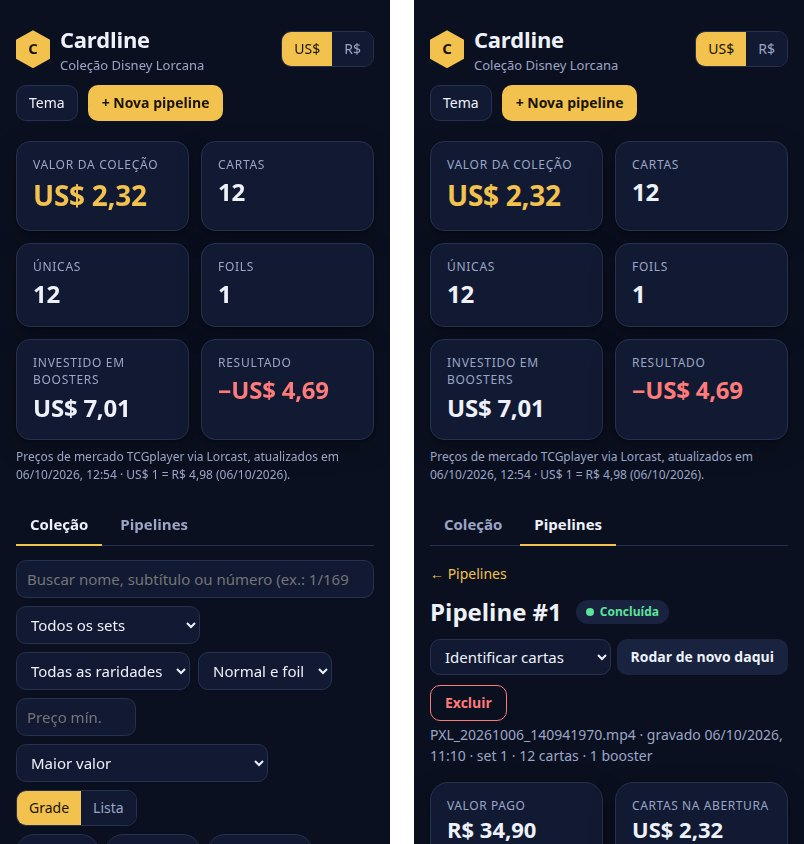
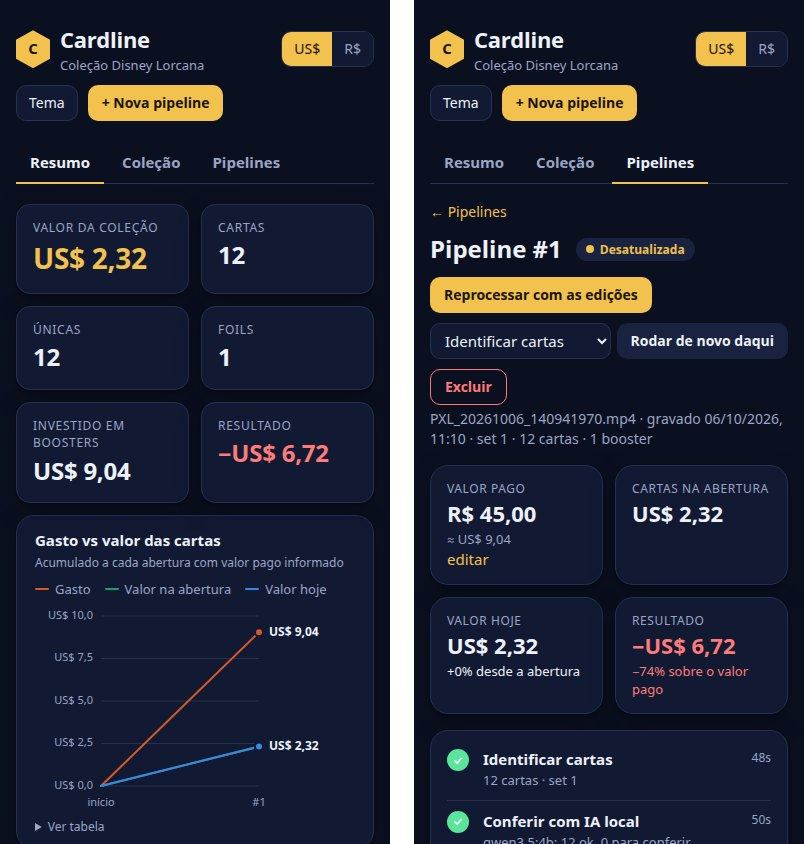
Aba Resumo com os números, o gráfico e a atualização de preços
O bloco de resumo (valor da coleção, investido, resultado, gráfico de gasto vs
valor e "Atualizar preços") saiu do topo de todas as telas e virou a aba
Resumo, ao lado de Coleção e Pipelines. A página abre nela; no topo fica só a
barra com moeda, tema e "+ Nova pipeline".

Claude-Session: https://claude.ai/code/session_01DBmU53kZnQptLA3bhpjGfq

diff --git a/cardline/web/index.html b/cardline/web/index.html
@@ -10,13 +10,21 @@
 <div class="wrap">
   <header class="top">
     <div class="brand">
-      <a class="logo" href="#/colecao" aria-label="Início">C</a>
+      <a class="logo" href="#/resumo" aria-label="Início">C</a>
       <div><h1>Cardline</h1><p>Coleção Disney Lorcana</p></div>
       <span class="spacer"></span>
       <div class="seg" id="currency" role="group" aria-label="Moeda"></div>
       <button class="iconbtn" id="theme" title="Alternar tema claro/escuro">Tema</button>
       <a class="btn" href="#/nova">+ Nova pipeline</a>
     </div>
+    <nav class="tabs">
+      <a href="#/resumo" data-tab="resumo">Resumo</a>
+      <a href="#/colecao" data-tab="colecao">Coleção</a>
+      <a href="#/pipelines" data-tab="pipelines">Pipelines <span id="active-badge" class="badge" hidden></span></a>
+    </nav>
+  </header>
+
+  <section id="view-resumo" class="view" hidden>
     <div class="stats" id="stats"></div>
     <section class="panel chartcard" aria-labelledby="chart-title">
       <div class="charthead">
@@ -30,13 +38,9 @@
     <div class="updated"><span id="updated"></span>
       <button class="linkbtn" id="refresh-prices">Atualizar preços</button>
       <span id="refresh-status" role="status"></span></div>
-    <nav class="tabs">
-      <a href="#/colecao" data-tab="colecao">Coleção</a>
-      <a href="#/pipelines" data-tab="pipelines">Pipelines <span id="active-badge" class="badge" hidden></span></a>
-    </nav>
-  </header>
+  </section>
 
-  <section id="view-colecao" class="view">
+  <section id="view-colecao" class="view" hidden>
     <div class="filters">
       <input type="search" id="q" placeholder="Buscar nome, subtítulo ou número (ex.: 1/169)" aria-label="Buscar">
       <select id="set" aria-label="Set"></select>

diff --git a/cardline/web/app.js b/cardline/web/app.js
@@ -711,15 +711,16 @@ $('#refresh-prices').onclick = async () => {
 
 // ---- rotas, carga e polling ----
 function currentView() {
-  const h = location.hash || '#/colecao';
+  const h = location.hash || '#/resumo';  // a página abre no Resumo
   if (/^#\/pipelines\/\d+/.test(h)) return 'run';
   if (h.startsWith('#/pipelines')) return 'pipelines';
   if (h.startsWith('#/nova')) return 'nova';
-  return 'colecao';
+  if (h.startsWith('#/colecao')) return 'colecao';
+  return 'resumo';
 }
 async function route() {
   const view = currentView();
-  for (const v of ['colecao', 'pipelines', 'run', 'nova']) $('#view-' + v).hidden = v !== view;
+  for (const v of ['resumo', 'colecao', 'pipelines', 'run', 'nova']) $('#view-' + v).hidden = v !== view;
   document.querySelectorAll('nav.tabs a').forEach(a => {
     const on = a.dataset.tab === view || (a.dataset.tab === 'pipelines' && (view === 'run' || view === 'nova'));
     if (on) a.setAttribute('aria-current', 'page'); else a.removeAttribute('aria-current');

diff --git a/README.md b/README.md
@@ -46,16 +46,21 @@ A página fica em `cardline/web/` (HTML, CSS e JavaScript puros, sem build) e é
 `cardline/server.py` (FastAPI). O mesmo servidor expõe a API, recebe os uploads e roda as pipelines em fila,
 uma por vez, cada uma num processo próprio.
 
-No topo da página ficam o valor da coleção, o total investido em boosters e o resultado, o seletor
-US$/R$ (pela cotação do dia) e o tema claro/escuro. Logo abaixo, o gráfico **Gasto vs valor das cartas**
-acumula, abertura por abertura, quanto foi pago e quanto as cartas valiam na abertura e valem hoje. O
-gráfico tem tooltip (também pelo teclado, com as setas) e uma tabela com os mesmos números em "Ver tabela".
+A página tem três abas: **Resumo** (onde ela abre), **Coleção** e **Pipelines**. No topo ficam sempre o
+seletor US$/R$ (pela cotação do dia), o tema claro/escuro e o botão **+ Nova pipeline**. As capturas
+abaixo são do booster de exemplo.
+
+### Resumo
+
+![Aba Resumo: valor da coleção, cartas, únicas, foils, investido em boosters e resultado, com o gráfico de gasto vs valor das cartas](docs/pagina-resumo.jpg)
+
+O valor da coleção, o total investido em boosters e o resultado. O gráfico **Gasto vs valor das cartas**
+acumula, abertura por abertura, quanto foi pago e quanto as cartas valiam na abertura e valem hoje. Ele tem
+tooltip (também pelo teclado, com as setas) e uma tabela com os mesmos números em "Ver tabela".
 
 **Atualizar preços**, ao lado da data dos preços, busca os preços de mercado de hoje das cartas da
 coleção. O valor de cada carta **no momento da abertura** fica guardado e não muda, nem com esse botão
 nem ao reprocessar uma pipeline. É ele que aparece no vídeo e em "Na abertura".
-
-As capturas abaixo são do booster de exemplo.
 
 ### Nova pipeline
 
@@ -113,7 +118,7 @@ foil, o link do TCGplayer e cada cópia: de qual pipeline veio (com link) e quan
 
 ### No celular e acesso remoto
 
-<img src="docs/pagina-celular.jpg" width="400" alt="Página no celular: coleção e detalhe de uma pipeline">
+<img src="docs/pagina-celular.jpg" width="400" alt="Página no celular: aba Resumo e detalhe de uma pipeline">
 
 A página funciona no celular. Por padrão o servidor só aceita conexões da própria máquina. Para acessar de
 outro aparelho:
